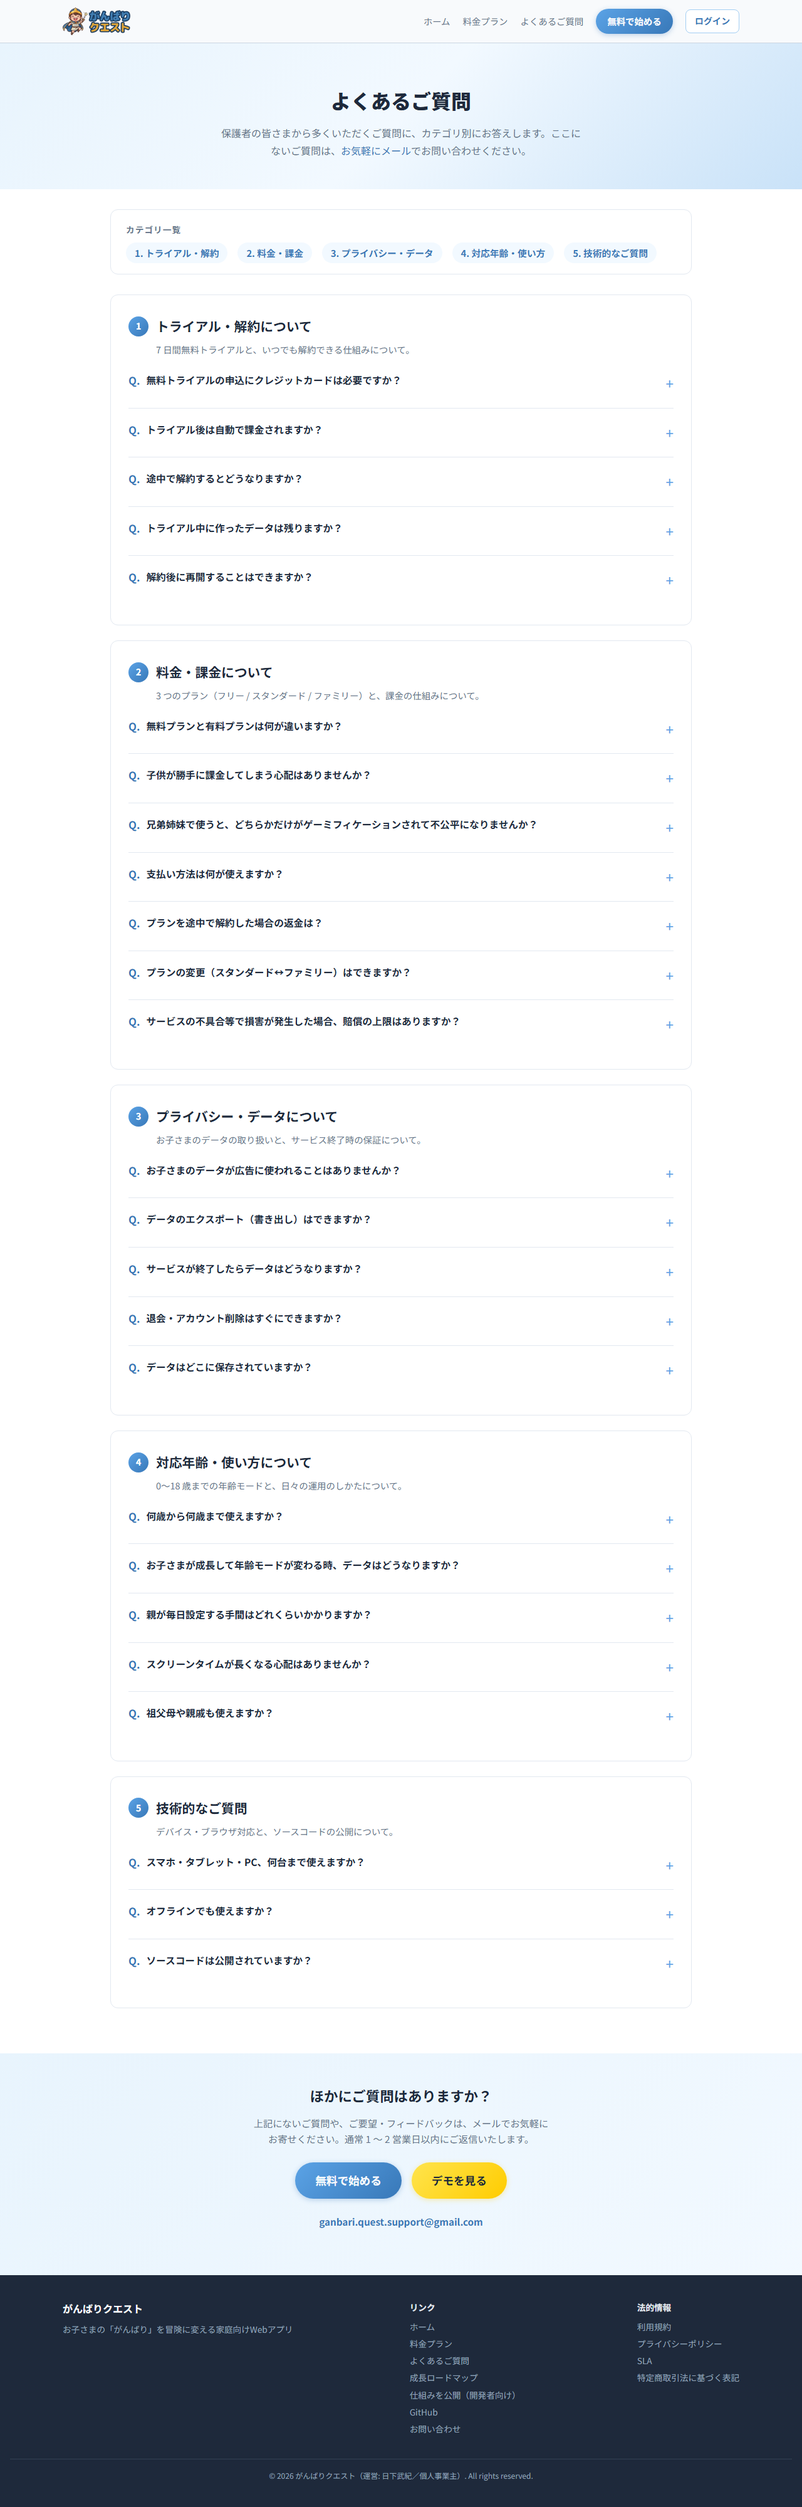
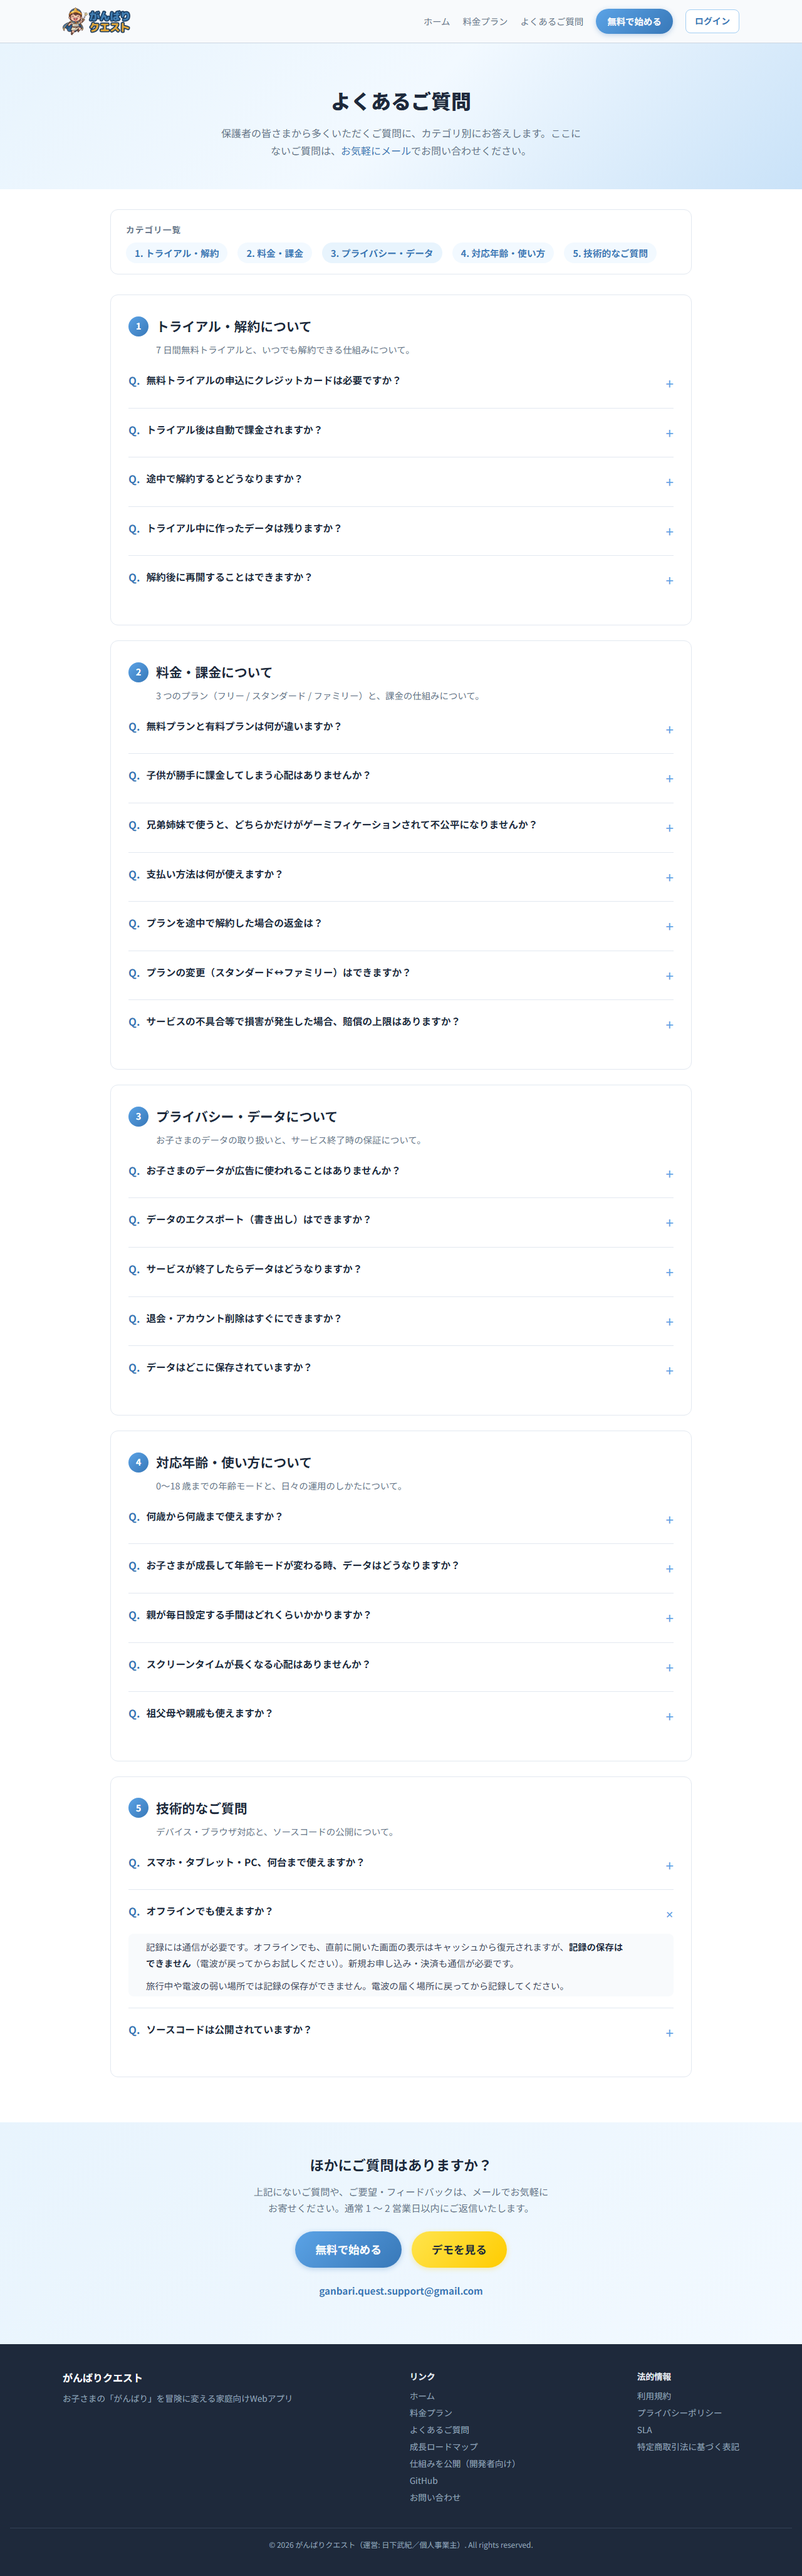
screenshots: PR #4590 after-faq を FAQ アコーディオン展開状態で再撮影
markdown ** の生露出修正 + 未検証の記録追加訴求削除後の文言を可視化するため、
「オフラインでも使えますか？」項目を展開した状態で再撮影 (旧画像は Before と
byte 同一のまま放置されていた)。

diff --git a/pr-4590/after-faq.dom.html b/pr-4590/after-faq.dom.html
@@ -390,11 +390,11 @@
         </div>
       </details>
 
-      <details class="faq-item">
+      <details class="faq-item" open="">
         <summary data-lp-key="faqB.k114" data-budoux-applied="true">オフラインでも使えますか？</summary>
         <div class="faq-answer" data-budoux-applied="true">
-          <p data-lp-key="faqB.k115">記録には通信が必要です。オフラインでも、直前に開いた画面の表示はキャッシュから復元されますが、**記録の保存はできません**（電波が戻ってからお試しください）。新規お申し込み・決済も通信が必要です。</p>
-          <p data-lp-key="faqB.k116">旅行中や電波の弱い場所では記録の保存ができません。電波の届く場所に戻ってから記録してください（後からその日の記録を追加できます）。</p>
+          <p data-lp-key="faqB.k115">記録には通信が必要です。オフラインでも、直前に開いた画面の表示はキャッシュから復元されますが、<strong>記録の保存はできません</strong>（電波が戻ってからお試しください）。新規お申し込み・決済も通信が必要です。</p>
+          <p data-lp-key="faqB.k116">旅行中や電波の弱い場所では記録の保存ができません。電波の届く場所に戻ってから記録してください。</p>
         </div>
       </details>
 
